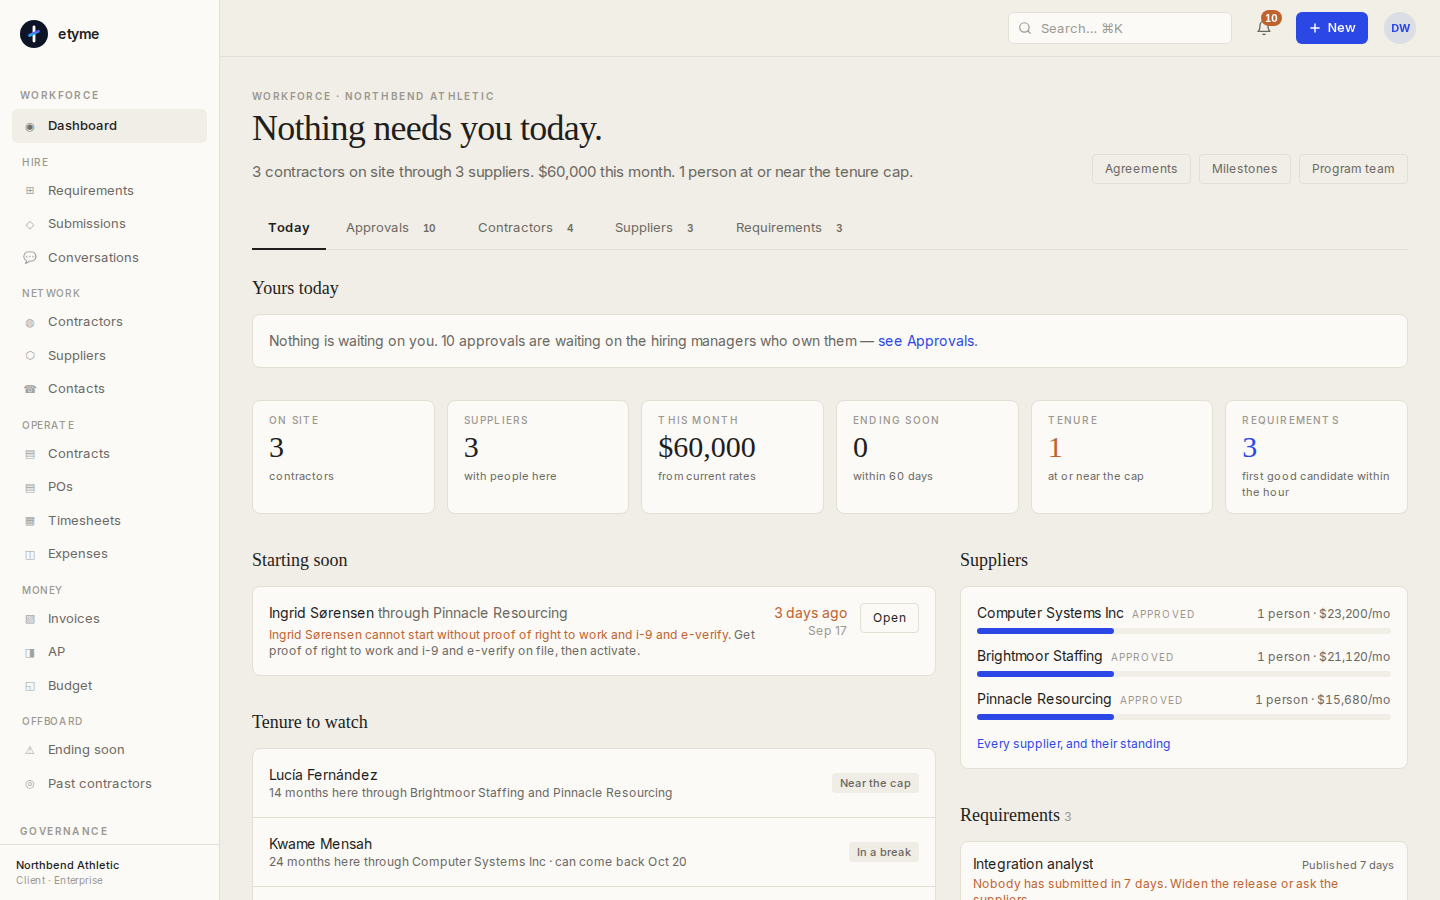
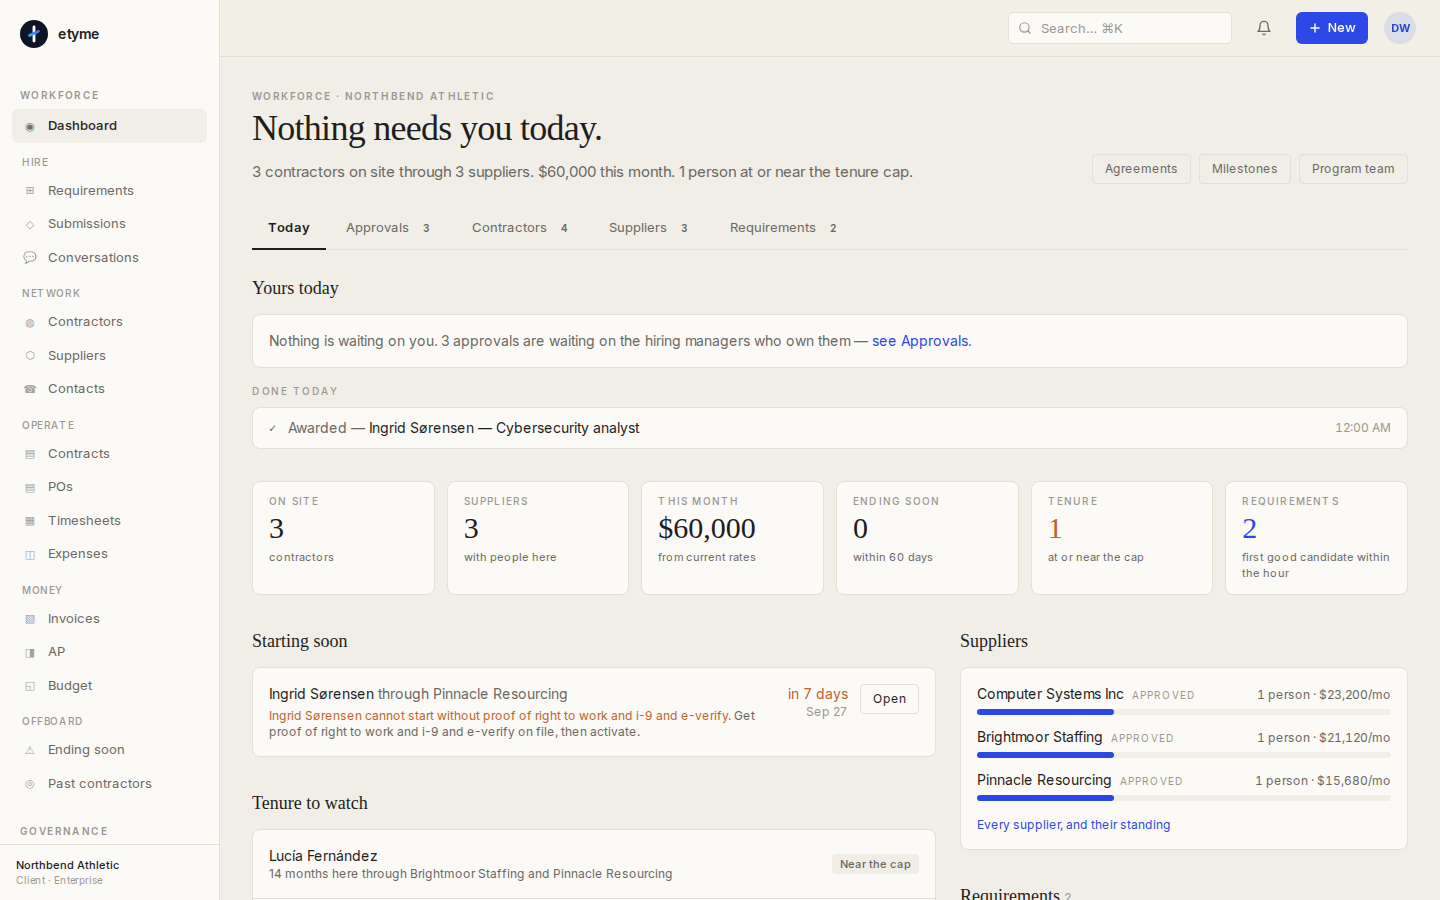
Every screenshot on the home page is retaken from a freshly seeded world
The seven images under public/screens were photographed from a database
seeded before the town and title renames. Every one of them showed
"Beaverton, OR", a town retired on 2026-09-17, and four carried product
names the seeds dropped on 2026-09-20 — "Workday HCM integration lead",
"SAP S/4 finance lead", chips reading Workday and Splunk. None of it was
visible to a test, because a PNG is opaque to one.

All seven are retaken at 1440x900 from a local database dropped and
seeded this evening: Tualatin, OR throughout, "ERP finance lead" and
"HCM integration lead" where the product names were, and the invoices
screen now opens on one bill per billing period with one due date, which
is what money fixed this week.

Four captions carried numbers that the new world does not have, and a
caption with a number the image does not show is the one thing this page
may not do:

  - three weeks waiting on a signature, not twelve
  - two supplier invoices open and $17,400 outstanding, not six and
    $104,400
  - a break that runs to 30 October, not 20 October
  - the contractors caption no longer says "each from one supplier",
    because one row on that screen lists two

The hero caption was checked against the new dashboard and is unchanged:
three contractors, three suppliers, $60,000 this month, one person near
the cap.

Each screen now carries the date it was taken, beside the desk it was
taken from, and a test fails on a stamp older than the last rename of
[…]

diff --git a/src/app/page.tsx b/src/app/page.tsx
@@ -229,6 +229,14 @@ const STEPS: {
   alt: string
   caption: string
   from: string
+  /**
+   * When the image was taken, UTC. Pinned because the seeded world it
+   * was photographed from is renamed from time to time — a town, a job
+   * title — and a PNG cannot be read by a test. A shot taken before the
+   * rename shows a name that no longer exists anywhere else, and the
+   * only thing that can catch it is the date beside `from`.
+   */
+  capturedAt: string
 }[] = [
   {
     n: '01',
@@ -238,6 +246,7 @@ const STEPS: {
     alt: 'A Candidates screen: nine people from three suppliers, each row naming the consultant, the role, the supplier, the rate and the stage.',
     caption: 'The hiring manager at Northbend Athletic. Nine people from three suppliers, each row carrying the firm that sent them, the rate it asked and where the person has got to.',
     from: '/dashboard/submissions as the hiring manager',
+    capturedAt: '2026-09-20T22:19:07Z',
   },
   {
     n: '02',
@@ -247,15 +256,17 @@ const STEPS: {
     alt: 'An orders screen: one order per supplier, what is left of what was authorized, and a line naming the person and their rate.',
     caption: 'What Northbend Athletic has authorized. One order per supplier, a line for each person at their own rate, and how much of the ceiling is left to bill against.',
     from: '/dashboard/purchase-orders as the program manager',
+    capturedAt: '2026-09-20T22:19:12Z',
   },
   {
     n: '03',
     t: 'Contractors file their weeks and your manager approves them',
     says: 'The contractor files their own week and nobody else may file it for them. The manager who owns the work signs it, and a week over the hours on the role is flagged before anybody signs.',
     img: '/screens/timesheets.png',
-    alt: 'A timesheets screen: twelve weeks waiting, each row naming the person, the period, the hours, the bill rate and what the week is worth.',
-    caption: 'The hiring manager at Northbend Athletic. Twelve weeks waiting on a signature, with the hours, the bill rate and what each week is worth, and one week over the hours on the role.',
+    alt: 'A timesheets screen: three weeks waiting on a signature, each row naming the person, the period, the hours, the bill rate and what the week is worth.',
+    caption: 'The hiring manager at Northbend Athletic. Three weeks waiting on a signature, with the hours, the bill rate and what each week is worth. One of them is over the hours on the role.',
     from: '/dashboard/timesheets as the hiring manager',
+    capturedAt: '2026-09-20T22:19:39Z',
   },
   {
     n: '04',
@@ -263,8 +274,9 @@ const STEPS: {
     says: 'Every supplier bills on the same screen, against hours your own manager has already signed. A bill with no signed week behind it, or no room left on the order, is not paid.',
     img: '/screens/invoices.png',
     alt: 'An invoices screen: the outstanding total, an aging breakdown, and a table of supplier bills with the period, the total and what is paid.',
-    caption: 'The accounts payable clerk at Northbend Athletic. Six supplier invoices open, five paid this period, $104,400 outstanding and none of it overdue.',
+    caption: 'The accounts payable clerk at Northbend Athletic. Two supplier invoices open, one paid this period, $17,400 outstanding and none of it overdue.',
     from: '/dashboard/invoices, what we owe, as the AP clerk',
+    capturedAt: '2026-09-20T22:19:45Z',
   },
 ]
 
@@ -321,20 +333,22 @@ const CANNOT_ANSWER: { q: string; today: string; etyme: string; detail?: string 
  *
  * `from` is where each image was taken, so it can be retaken.
  */
-const ANSWERS: { q: string; img: string; alt: string; caption: string; from: string }[] = [
+const ANSWERS: { q: string; img: string; alt: string; caption: string; from: string; capturedAt: string }[] = [
   {
     q: 'How many contractors are on our sites, and whose are they?',
     img: '/screens/contractors.png',
     alt: 'A contractors table: one row per person, with the supplier that sent them, their status, where they are and their months on site.',
-    caption: 'Eight people at Northbend Athletic, each from one supplier, with the months each has been on site and the date they were last engaged.',
+    caption: 'Eight people at Northbend Athletic, with the supplier that put each of them forward, the months each has been on site and the date they were last engaged.',
     from: '/dashboard/people, table view, as the program manager',
+    capturedAt: '2026-09-20T22:21:34Z',
   },
   {
     q: 'Who has been here longest?',
     img: '/screens/tenure.png',
     alt: 'A tenure table: four people, the vendors each worked through, the months counted across all of them, and the standing against an 18 month cap.',
-    caption: 'The same people counted across suppliers. Fourteen months through two firms against an eighteen month cap, and one person in a break until 20 October.',
+    caption: 'The same people counted across suppliers. Fourteen months through two firms against an eighteen month cap, and one person in a break until 30 October.',
     from: '/dashboard/tenure as the program manager',
+    capturedAt: '2026-09-20T22:20:18Z',
   },
 ]
 
@@ -787,8 +801,14 @@ export default function LandingPage() {
 
           <figure className="overflow-hidden rounded-xl border border-etyme-rule
                              bg-etyme-raised shadow-sm">
+            {/* Taken from the seeded demo world on the date stamped on the
+                image below, UTC — the same stamp the step screens carry
+                beside `from`. A test cannot read a PNG, so the date is
+                the only thing that can tell a shot taken before a rename
+                in the demo world from one taken after it. */}
             <img
               src="/screens/program-dashboard.png"
+              data-captured-at="2026-09-20T22:18:50Z"
               alt="The program dashboard: a sentence saying whether anything needs the reader today, then six numbers — on site, suppliers, this month, ending soon, the tenure cap and requirements — over a list of who is starting soon and which suppliers are on site."
               width={1440}
               height={900}

diff --git a/__tests__/invariants/positioning.test.ts b/__tests__/invariants/positioning.test.ts
@@ -1021,6 +1021,37 @@ describe('The page shows the product before it describes it', () => {
     for (const tag of tags) expect(tag, tag.slice(0, 80)).toMatch(/width=\{1440\}/)
   })
 
+  it('every screenshot was captured after the town and title renames', () => {
+    // The seeded world is renamed from time to time — a town on
+    // 2026-09-17, four job titles and a handful of skill chips on
+    // 2026-09-20 — and a screenshot taken before a rename goes on
+    // showing a name that exists nowhere else in the product. Nothing
+    // can catch that by reading the file: a PNG is opaque to a test,
+    // and the founder is the only reader who would notice "Beaverton"
+    // on a page that says Tualatin everywhere else.
+    //
+    // So each shot carries the date it was taken, beside the desk it
+    // was taken from, and the date has to be later than the last
+    // rename. Retaking a screen means restamping it, which is the one
+    // moment somebody is looking at the image anyway.
+    const RENAMES_DONE = Date.parse('2026-09-20T22:00:00Z')
+
+    const stamps = [
+      ...[...PAGE.matchAll(/capturedAt: '([^']+)'/g)].map((m) => m[1]),
+      ...[...PAGE.matchAll(/data-captured-at="([^"]+)"/g)].map((m) => m[1]),
+    ]
+
+    // One stamp per screen the page draws, hero included.
+    const drawn = [...new Set(SCREENS)]
+    expect(stamps.length, 'a capture date for every screenshot on the page').toBe(drawn.length)
+
+    for (const stamp of stamps) {
+      const when = Date.parse(stamp)
+      expect(Number.isNaN(when), `${stamp} is not a date`).toBe(false)
+      expect(when, `${stamp} is older than the last rename of the demo world`).toBeGreaterThan(RENAMES_DONE)
+    }
+  })
+
   it('the top of the page has at most six sentences before the first screen', () => {
     // Six is the refusal line, not the target. The eyebrow is two words
     // and the headline is the line the founder signed off — neither is
